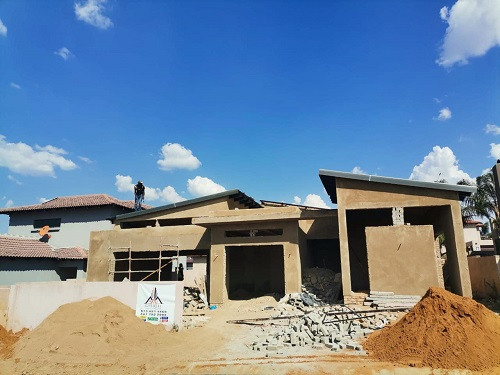
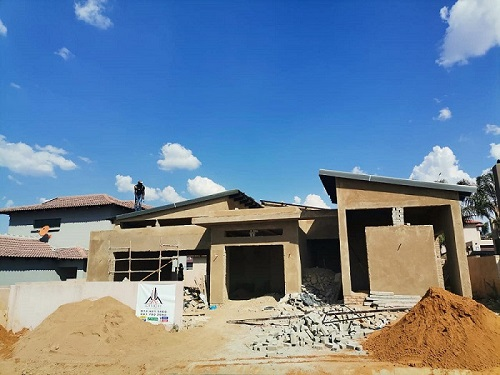
imgs

diff --git a/index.html b/index.html
@@ -175,7 +175,7 @@
                         <figure class="menu-image io-item">
                             <a class="button-bg brand-bg" href="mailto:info@orichtrading.co.za?subject=Construction Project">make enquiry<i
                                 class="fas fa-envelope"></i></a>
-                            <img src="img/construction.jpg" width="450" height="450" loading="lazy" alt="Roofing & Painting">
+                            <img src="img/construction-min.jpg" width="450" height="450" loading="lazy" alt="Roofing & Painting">
                         </figure>
                     </div>
                     <!-- MENU ITEM 2 -->
@@ -189,7 +189,7 @@
                         <figure class="menu-image io-item">
                             <a class="button-bg brand-bg" href="mailto:info@orichtrading.co.za?subject=Electrical Services">make enquiry<i
                                 class="fas fa-envelope"></i></a>
-                            <img src="img/electric-service.jpg" width="450" height="600" loading="lazy" alt="Electrical services">
+                            <img src="img/electric-service-min.jpg" width="450" height="600" loading="lazy" alt="Electrical services">
                         </figure>
                     </div>
                     <!-- MENUT ITEM 3 -->
